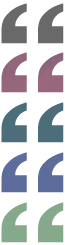
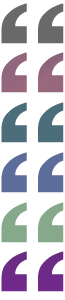
Add new personal photo and quote color

diff --git a/assets/js/hover-quotes.js b/assets/js/hover-quotes.js
@@ -1,3 +1,4 @@
+var photo = document.getElementById('photo');
 var topQuotes = document.getElementById('top-quotes');
 var bottomQuotes = document.getElementById('bottom-quotes');
 var blog = document.getElementById('blog');
@@ -11,6 +12,7 @@ blog.addEventListener('mouseover', function() {
   bottomQuotes.style.animation = 'float 2s infinite, quote-start-transition 0.8s ease';
   topQuotes.style.backgroundPosition = '0 -100px';
   bottomQuotes.style.backgroundPosition = '0 -100px';
+  photo.style.backgroundPosition = '-620px 0';
 });
 
 blog.addEventListener('mouseout', function() {
@@ -18,13 +20,15 @@ blog.addEventListener('mouseout', function() {
   bottomQuotes.style.animation = 'float 2s infinite, quote-finish-transition 0.8s ease';
   topQuotes.style.backgroundPosition = '0 0';
   bottomQuotes.style.backgroundPosition = '0 -200px';
+  photo.style.backgroundPosition = '0 0';
 });
 
 software.addEventListener('mouseover', function() {
   topQuotes.style.animation = 'float 2s infinite, quote-start-transition 0.8s ease';
   bottomQuotes.style.animation = 'float 2s infinite, quote-start-transition 0.8s ease';
-  topQuotes.style.backgroundPosition = '0 -50px';
-  bottomQuotes.style.backgroundPosition = '0 -150px';
+  topQuotes.style.backgroundPosition = '0 -250px';
+  bottomQuotes.style.backgroundPosition = '0 -250px';
+  photo.style.backgroundPosition = '-1550px 0';
 });
 
 software.addEventListener('mouseout', function() {
@@ -32,6 +36,7 @@ software.addEventListener('mouseout', function() {
   bottomQuotes.style.animation = 'float 2s infinite, quote-finish-transition 0.8s ease';
   topQuotes.style.backgroundPosition = '0 0';
   bottomQuotes.style.backgroundPosition = '0 -200px';
+  photo.style.backgroundPosition = '0 0';
 });
 
 design.addEventListener('mouseover', function() {
@@ -39,6 +44,7 @@ design.addEventListener('mouseover', function() {
   bottomQuotes.style.animation = 'float 2s infinite, quote-start-transition 0.8s ease';
   topQuotes.style.backgroundPosition = '0 -50px';
   bottomQuotes.style.backgroundPosition = '0 -150px';
+  photo.style.backgroundPosition = '-310px 0';
 });
 
 design.addEventListener('mouseout', function() {
@@ -46,6 +52,7 @@ design.addEventListener('mouseout', function() {
   bottomQuotes.style.animation = 'float 2s infinite, quote-finish-transition 0.8s ease';
   topQuotes.style.backgroundPosition = '0 0';
   bottomQuotes.style.backgroundPosition = '0 -200px';
+  photo.style.backgroundPosition = '0 0';
 });
 
 about.addEventListener('mouseover', function() {
@@ -53,6 +60,7 @@ about.addEventListener('mouseover', function() {
   bottomQuotes.style.animation = 'float 2s infinite, quote-start-transition 0.8s ease';
   topQuotes.style.backgroundPosition = '0 -150px';
   bottomQuotes.style.backgroundPosition = '0 -50px';
+  photo.style.backgroundPosition = '-1240px 0';
 });
 
 about.addEventListener('mouseout', function() {
@@ -60,6 +68,7 @@ about.addEventListener('mouseout', function() {
   bottomQuotes.style.animation = 'float 2s infinite, quote-finish-transition 0.8s ease';
   topQuotes.style.backgroundPosition = '0 0';
   bottomQuotes.style.backgroundPosition = '0 -200px';
+  photo.style.backgroundPosition = '0 0';
 });
 
 contact.addEventListener('mouseover', function() {
@@ -67,6 +76,7 @@ contact.addEventListener('mouseover', function() {
   bottomQuotes.style.animation = 'float 2s infinite, quote-start-transition 0.8s ease';
   topQuotes.style.backgroundPosition = '0 -200px';
   bottomQuotes.style.backgroundPosition = '0 0';
+  photo.style.backgroundPosition = '-930px 0';
 });
 
 contact.addEventListener('mouseout', function() {
@@ -74,4 +84,5 @@ contact.addEventListener('mouseout', function() {
   bottomQuotes.style.animation = 'float 2s infinite, quote-finish-transition 0.8s ease';
   topQuotes.style.backgroundPosition = '0 0';
   bottomQuotes.style.backgroundPosition = '0 -200px';
+  photo.style.backgroundPosition = '0 0';
 });

diff --git a/assets/css/main.css b/assets/css/main.css
@@ -4,6 +4,9 @@ body {
   font-family: 'Source Sans Pro', sans-serif;
   color: #909090;
   background-color: #e6e6e6;
+  background-image: url('../img/background.png');
+  background-attachment: fixed;
+  background-size: cover;
   cursor: default;
 }
 
@@ -91,6 +94,10 @@ a:focus {
 }
 
 #software:hover, #software:focus, #software:active {
+  color: #8B579C;
+}
+
+#design:hover, #design:focus, #design:active {
   color: #94677d;
 }
 
